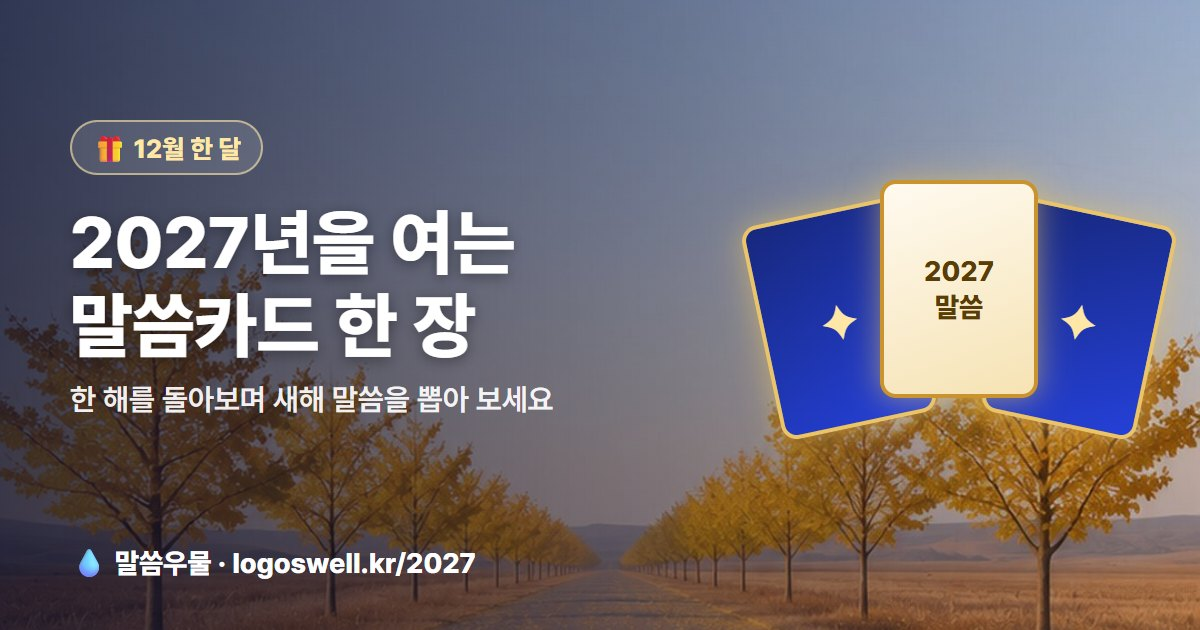
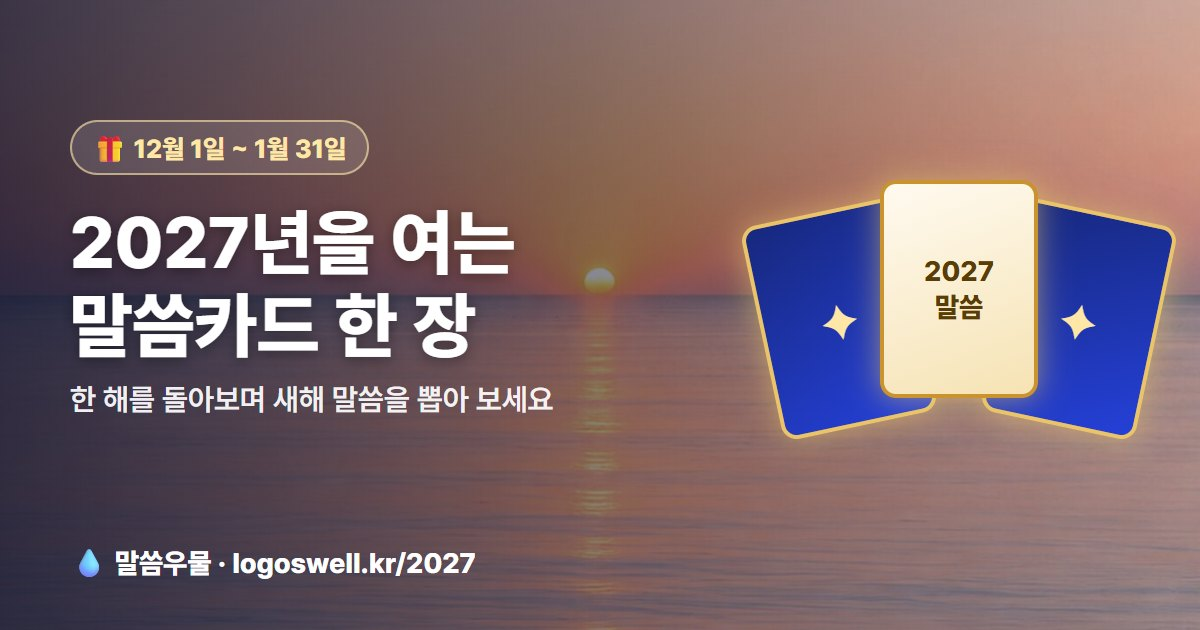
새해 사진 6장(86~91번): 1/1~1/6 매일 말씀카드 배경, 새해 말씀카드 짝짓기 후보, 카톡 미리보기 그림
Claude-Session: https://claude.ai/code/session_01L6K1Y8HpgBBQGHfucxg375

diff --git a/assets/yearend-card.js b/assets/yearend-card.js
@@ -233,21 +233,22 @@ var YEAR_CARD_DESIGNS = [
 // seed가 같으면 늘 같은 카드가 나온다(다시 열어도 같은 카드). 사람마다 seed가 달라 같은 말씀도 카드가 다를 수 있다.
 // 사진 번호는 assets/verse-card-bg 밝은 사진: 71 냇가 72 호수와 나무 73 바다 74 노을 도시 75 호수 76 해 뜨는 언덕 77 들판 나무
 // 78 초록 언덕 79 황금 들판 80 은행나무 길 81 단풍 언덕 82 벤치 83 노을 속 나무 84 억새 언덕 85 가을 호수
+// 새해 사진: 86 바다 해돋이 87 눈밭의 나무 88 안개 낀 산 능선 89 눈 쌓인 솔숲 길 90 얼어붙은 호수 91 해돋이 언덕 벤치
 var YEAR_CARD_THEMES = [
-  { re: /새벽|아침|햇살|돋는|해요|빛|비추|광명/, looks: ["dawn", "dawn", "p76", "p74", "p79"] },
-  { re: /새 일|새 노래|새 마음|새 영|새롭|새 사람|새로워|만물|내일|앞에 있는|이전 일|옛날 일/, looks: ["dawn", "gold", "p79", "p76"] },
+  { re: /새벽|아침|햇살|돋는|해요|빛|비추|광명/, looks: ["dawn", "p86", "p86", "p88", "p91", "p76", "p74", "p79"] },
+  { re: /새 일|새 노래|새 마음|새 영|새롭|새 사람|새로워|만물|내일|앞에 있는|이전 일|옛날 일/, looks: ["dawn", "gold", "p86", "p87", "p91", "p88", "p79"] },
   { re: /별|밤|영광|영원|보좌|하늘/, looks: ["night", "night", "gold"] },
-  { re: /길|인도|가든지|다닐|달려|걸|발을|출입|나아가|이끌|지도하/, looks: ["p80", "p80", "p78", "p77", "gold"] },
-  { re: /(?<!만)물|시냇가|샘|강변|비와|적시|바다/, looks: ["p71", "p72", "p75", "p85", "p73"] },
-  { re: /나무|열매|뿌리|잎|심은|결실|씨를|거두|동산/, looks: ["p72", "p77", "p83", "p76"] },
-  { re: /산|언덕|반석|요새|산성|바위|피난처|높은 곳|눈을 들/, looks: ["p81", "p84", "p78"] },
-  { re: /쉬게|쉼|평안|평강|근심하지|염려하지|가만히|잠잠|두려워하지/, looks: ["p82", "clean", "paper", "p75"] },
-  { re: /복|은혜|은택|선물|은사|관 씌우|채우|넉넉|좋은 것|소원/, looks: ["gold", "gold", "p79", "p76"] },
+  { re: /길|인도|가든지|다닐|달려|걸|발을|출입|나아가|이끌|지도하/, looks: ["p80", "p89", "p89", "p78", "p77", "gold"] },
+  { re: /(?<!만)물|시냇가|샘|강변|비와|적시|바다/, looks: ["p71", "p72", "p75", "p85", "p73", "p86", "p90"] },
+  { re: /나무|열매|뿌리|잎|심은|결실|씨를|거두|동산/, looks: ["p72", "p77", "p83", "p76", "p87", "p89"] },
+  { re: /산|언덕|반석|요새|산성|바위|피난처|높은 곳|눈을 들/, looks: ["p81", "p84", "p78", "p88", "p88"] },
+  { re: /쉬게|쉼|평안|평강|근심하지|염려하지|가만히|잠잠|두려워하지/, looks: ["p82", "p91", "p90", "clean", "paper", "p75"] },
+  { re: /복|은혜|은택|선물|은사|관 씌우|채우|넉넉|좋은 것|소원/, looks: ["gold", "gold", "p79", "p76", "p86", "p91"] },
   { re: /말씀|진리|교훈|지혜|가르치|기록|명철|도를/, looks: ["paper", "paper", "clean"] },
   { re: /힘|능력|강하고|담대|이기|독수리|싸우|견고/, looks: ["gold", "p81", "p84", "night"] },
   { re: /사랑|마음|인자/, looks: ["clean", "paper", "dawn"] }
 ];
-var YEAR_CARD_ANY = ["p71", "p72", "p76", "p77", "p78", "p79", "p80", "p83", "p85", "gold", "paper", "dawn", "night", "clean"];
+var YEAR_CARD_ANY = ["p86", "p87", "p88", "p89", "p90", "p91", "p71", "p72", "p76", "p77", "p78", "p79", "p80", "p83", "p85", "gold", "paper", "dawn", "night", "clean"];
 
 function yearCardLook(verse, seed) {
   var pool = [];

diff --git a/assets/script.js b/assets/script.js
@@ -333,7 +333,7 @@ function loadVerseCardFonts() {
 
 // 말씀카드 배경(1080x2340) 중 한 장을 매일 바꿔서 쓴다.
 // 배경은 저장 사이즈에 맞춰 비율을 유지한 채 가운데를 기준으로 잘라 넣는다(drawVerseCardBg 참고).
-var VERSE_CARD_BG_COUNT = 85; // 80~85: 가을 단풍 6장(2026-11-06 추가)
+var VERSE_CARD_BG_COUNT = 91; // 80~85: 가을 단풍 6장, 86~91: 새해 6장(2026-11-06 추가)
 
 // 순환의 기준점. 이 날짜에 이 번호가 나오고 하루에 한 칸씩 넘어간다.
 // 2026-11-04에 새로 추가한 밝은 배경의 첫 장(71번)부터 나오도록 맞춰두었다.
@@ -349,9 +349,14 @@ function getVerseCardBgIndex() {
   var today = Date.UTC(now.getFullYear(), now.getMonth(), now.getDate());
   var diffDays = Math.round((today - VERSE_CARD_BG_EPOCH) / 86400000);
   // 기준일 이전 날짜에서도 음수가 나오지 않도록 나머지를 한 번 더 보정한다.
+  // 새해 사진(86~91번)은 2027-01-01부터 01-06까지 하루 한 장씩 차례로 나오고, 1/7부터 다른 배경과 함께 돈다. 그 전에는 쓰지 않는다.
+  var NEWYEAR_FROM = Date.UTC(2027, 0, 1);
+  if (today >= NEWYEAR_FROM && today < NEWYEAR_FROM + 6 * 86400000) return 86 + Math.round((today - NEWYEAR_FROM) / 86400000);
   var used = [];
   for (var n = 1; n <= VERSE_CARD_BG_COUNT; n++) {
-    if (VERSE_CARD_BG_SKIP.indexOf(n) === -1) used.push(n);
+    if (VERSE_CARD_BG_SKIP.indexOf(n) !== -1) continue;
+    if (n >= 86 && today < NEWYEAR_FROM) continue;
+    used.push(n);
   }
   var start = used.indexOf(VERSE_CARD_BG_EPOCH_INDEX);
   var slot = ((diffDays + start) % used.length + used.length) % used.length;

diff --git a/sw.js b/sw.js
@@ -1,7 +1,7 @@
 // 말씀우물 PWA 서비스 워커: 앱 셸을 미리 캐시해두되, 온라인일 때는 항상 최신 버전을
 // 먼저 시도하는 네트워크 우선(network-first) 방식으로 처리하고, 오프라인일 때만 캐시로 대체한다.
 // (예전에는 캐시 우선 방식이라 배포 후에도 옛 버전이 계속 보이는 문제가 있었음)
-var CACHE_VERSION = "msu-v231";
+var CACHE_VERSION = "msu-v232";
 var PRECACHE = [
   "./",
   "index.html",
